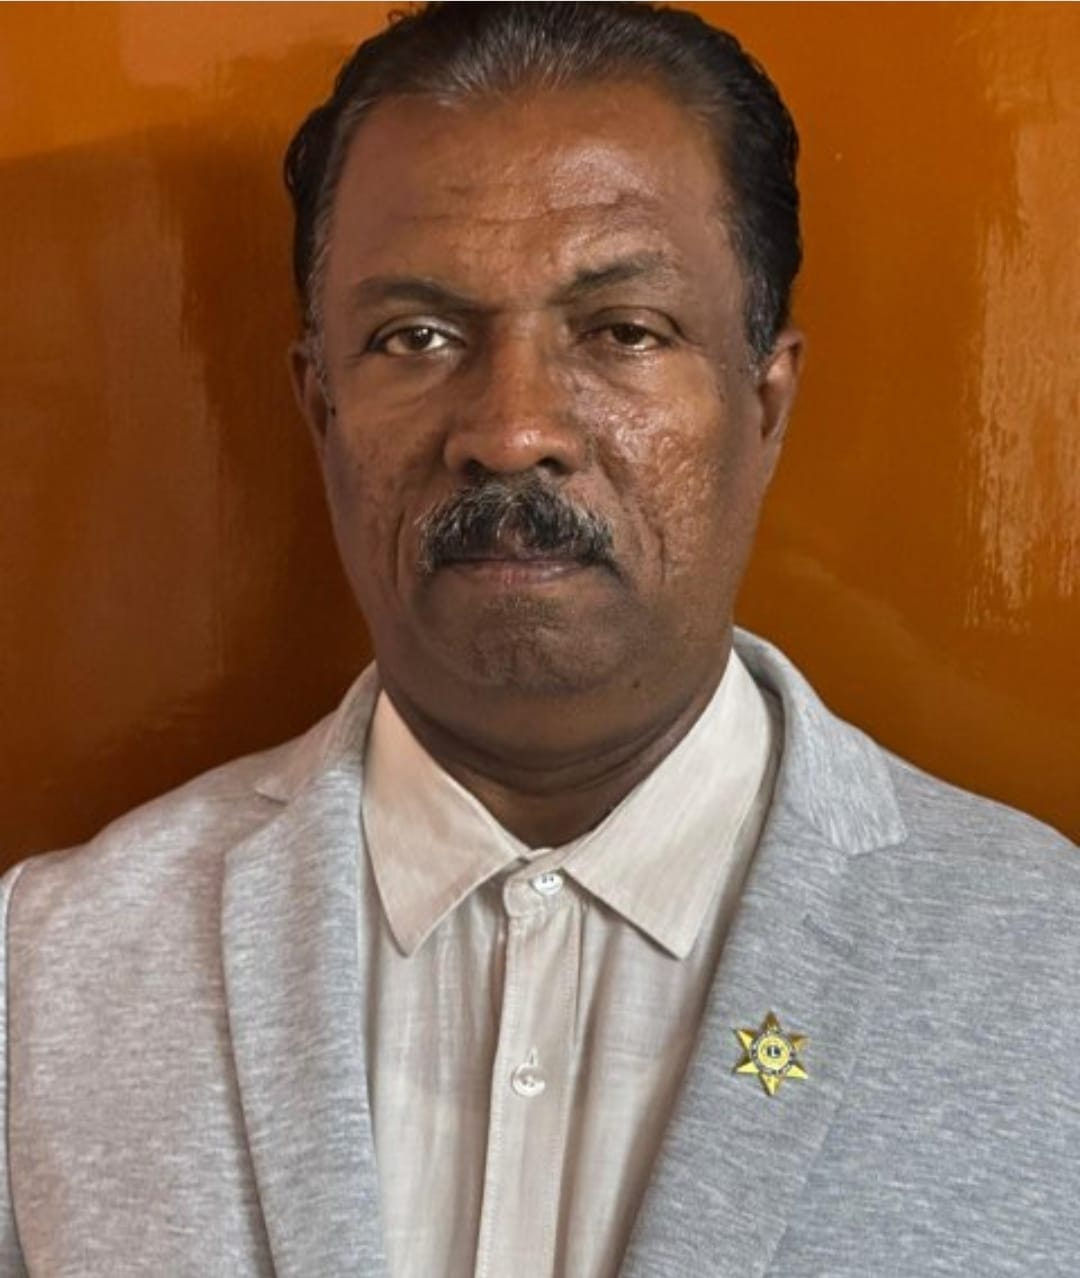
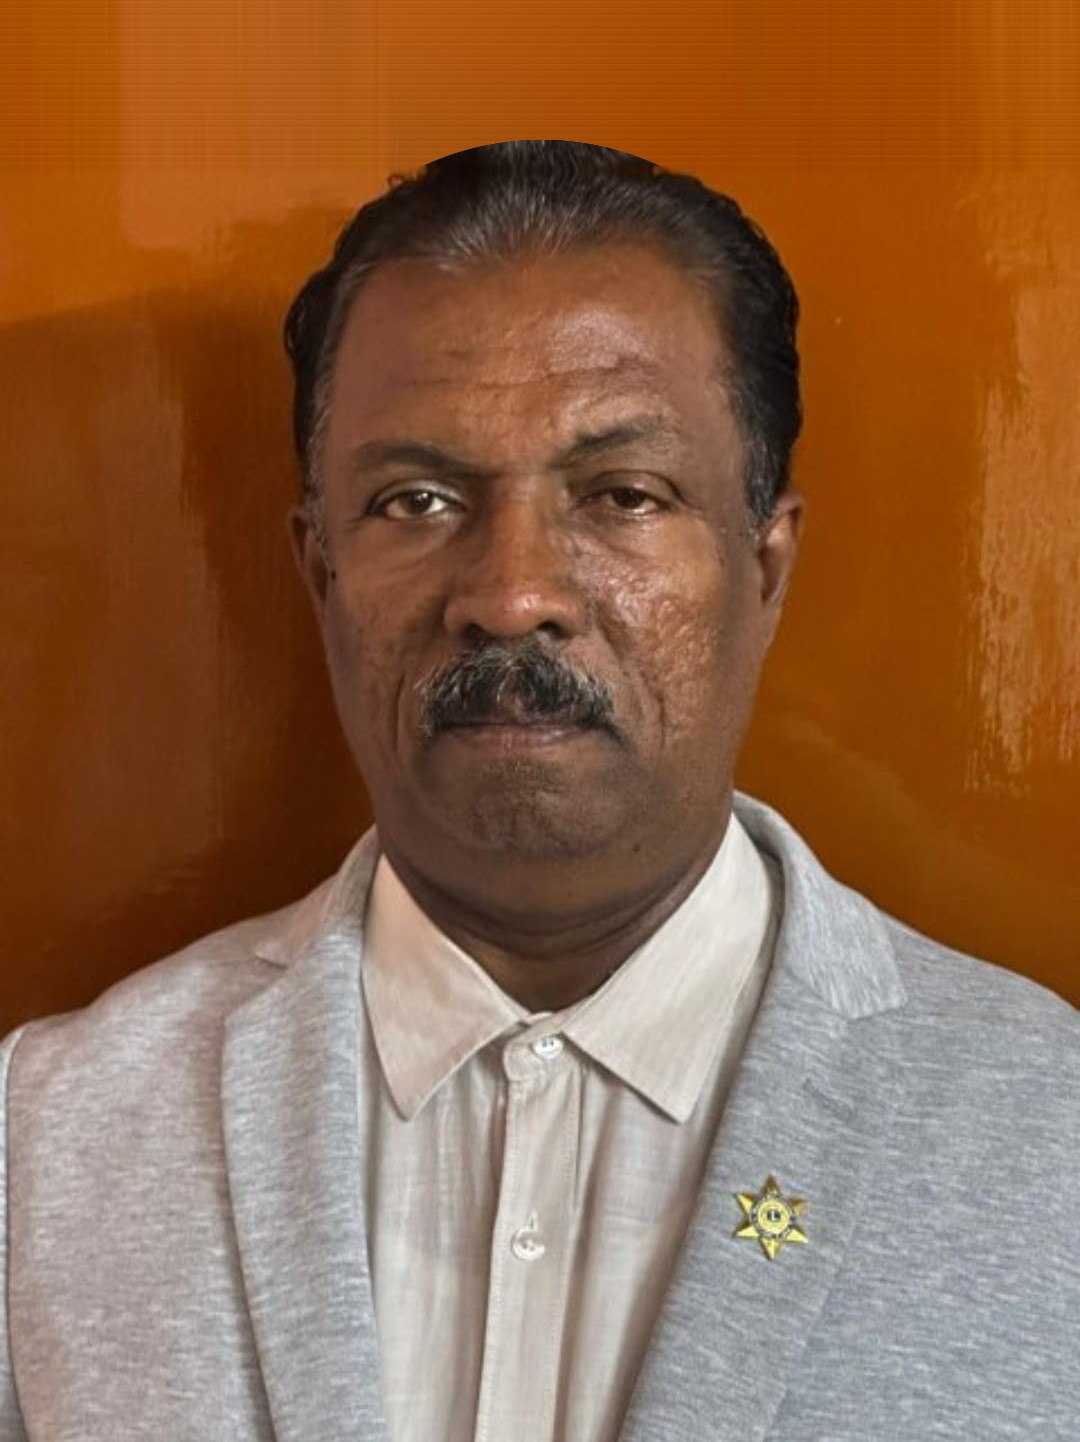
image changed

diff --git a/assets/css/style.css b/assets/css/style.css
@@ -24907,18 +24907,26 @@ footer .logo img {
    rendered at its intrinsic size and floated small inside the
    column. Filling the column width and fixing a height gives the
    four cards a consistent portrait crop.
-   Tweak --team-img-h to resize. */
+   Tweak --team-img-h to resize - it is the single source of truth for
+   the card height at every breakpoint. */
 :root {
-  --team-img-h: 280px;
+  --team-img-h: 400px;
 }
 
 .single-team .team-thumb img {
   display: block;
   width: 100%;
-  height: 400px;
+  height: var(--team-img-h);
   object-fit: cover;
   object-position: center top;
 }
+
+/* The founder photo (sriram.jpeg) was shot with his crown running off the top
+   edge of the frame, so `center top` had nothing above his hair to show and the
+   head read as cut. The headroom is baked into the image itself - the crown is
+   rebuilt and ~170px of wall added above it - rather than fixed here, because no
+   crop can recover pixels the source never had. sriram-original.jpeg is the
+   untouched shot. Do not re-crop this card expecting to gain headroom. */
 
 /* team-4 is the odd one out: she stands at about 73% of a 1500px-wide
    landscape frame, while the other three are centred in theirs. A centred
@@ -24934,15 +24942,38 @@ footer .logo img {
   object-position: right top;
 }
 
+/* Card height per breakpoint. As the viewport narrows the column gets WIDER
+   (col-xl-3 -> col-lg-4 -> col-md-6 -> full width), so a single fixed height
+   turns the portrait crop progressively squarer, and below 768px - where the
+   card goes full-bleed at up to 516px - outright landscape. Each step below
+   raises the height to hold the crop near a 0.7 width/height ratio. Card
+   widths are container + g-5 gutters: 288/243 (xl), 280 (lg), 324 (md),
+   366-516 (below md). */
 @media only screen and (max-width: 1199px) {
   :root {
-    --team-img-h: 300px;
+    --team-img-h: 440px;
   }
 }
 
-@media only screen and (max-width: 575px) {
+@media only screen and (max-width: 991px) {
   :root {
-    --team-img-h: 320px;
+    --team-img-h: 480px;
+  }
+}
+
+/* Below 768px no column class applies, so the card stretches the full 516px
+   container and no height alone could keep it portrait - the width swings
+   from 366px on a phone to 551px at the top of the range. Capping the card
+   and centring it pins the ratio, and the taller image then reads as a
+   deliberate portrait rather than a stretched banner. */
+@media only screen and (max-width: 767px) {
+  :root {
+    --team-img-h: 520px;
+  }
+  .single-team {
+    max-width: 380px;
+    margin-left: auto;
+    margin-right: auto;
   }
 }
 
